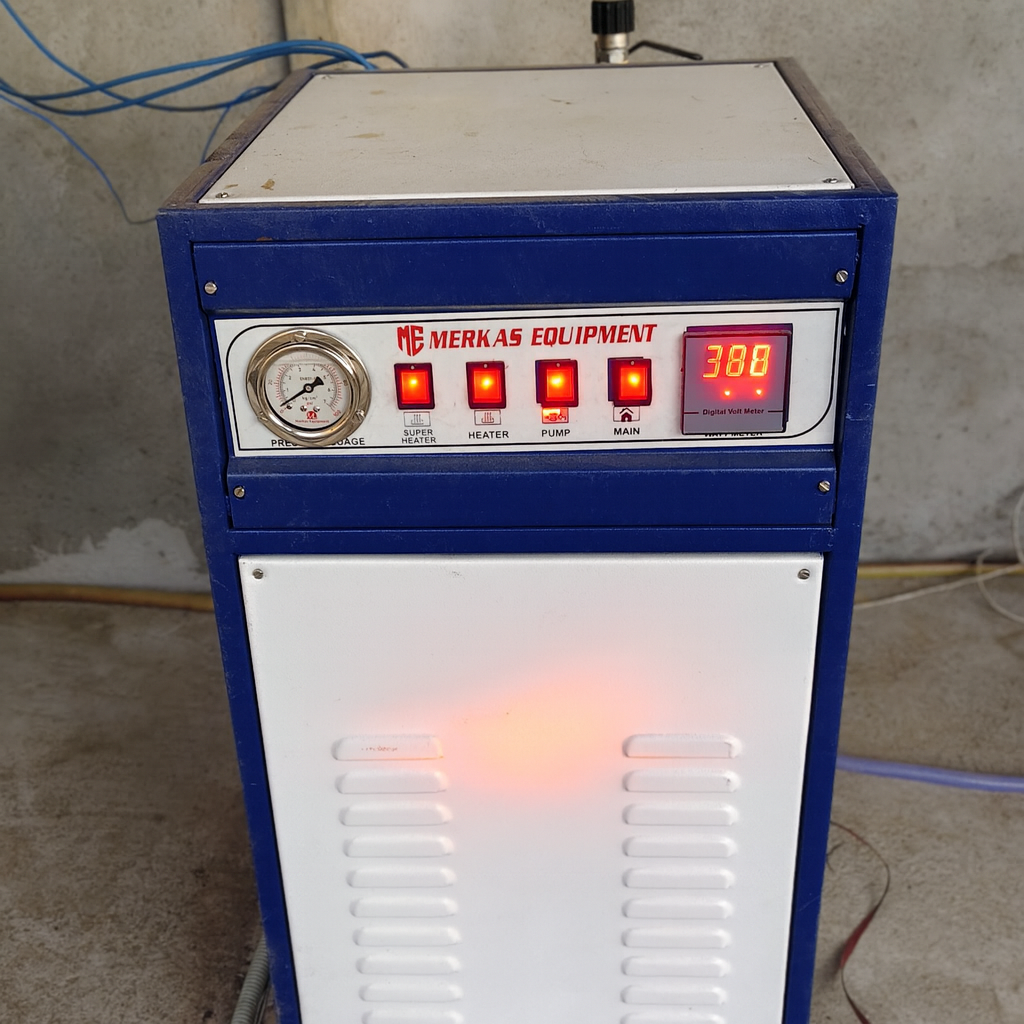
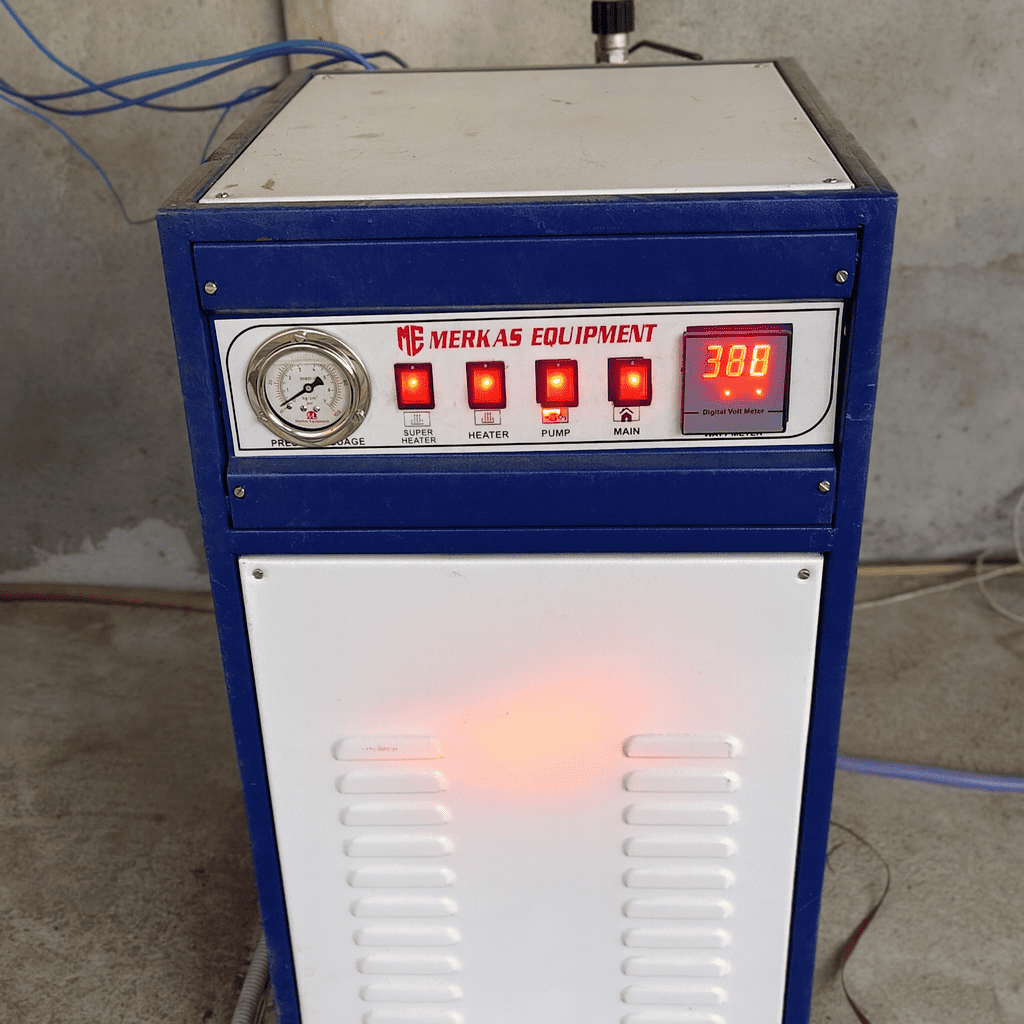
comress images final

diff --git a/app/about/page.js b/app/about/page.js
@@ -27,14 +27,7 @@ const AboutPage = () => {
                   Our mission is to deliver 100% pure and healthy groundnut oil to every family. We are committed to fair practices, supporting local farmers, and preserving the traditional methods that guarantee the quality of our product.
                 </p>
               </div>
-              <div className="about-image">
-                <Image 
-                  src="/about/about.png" 
-                  alt="The facility of Khodiyar Oil Mill" 
-                  width={400} 
-                  height={500} 
-                />
-              </div>
+              
             </div>
           </div>
         </section>
